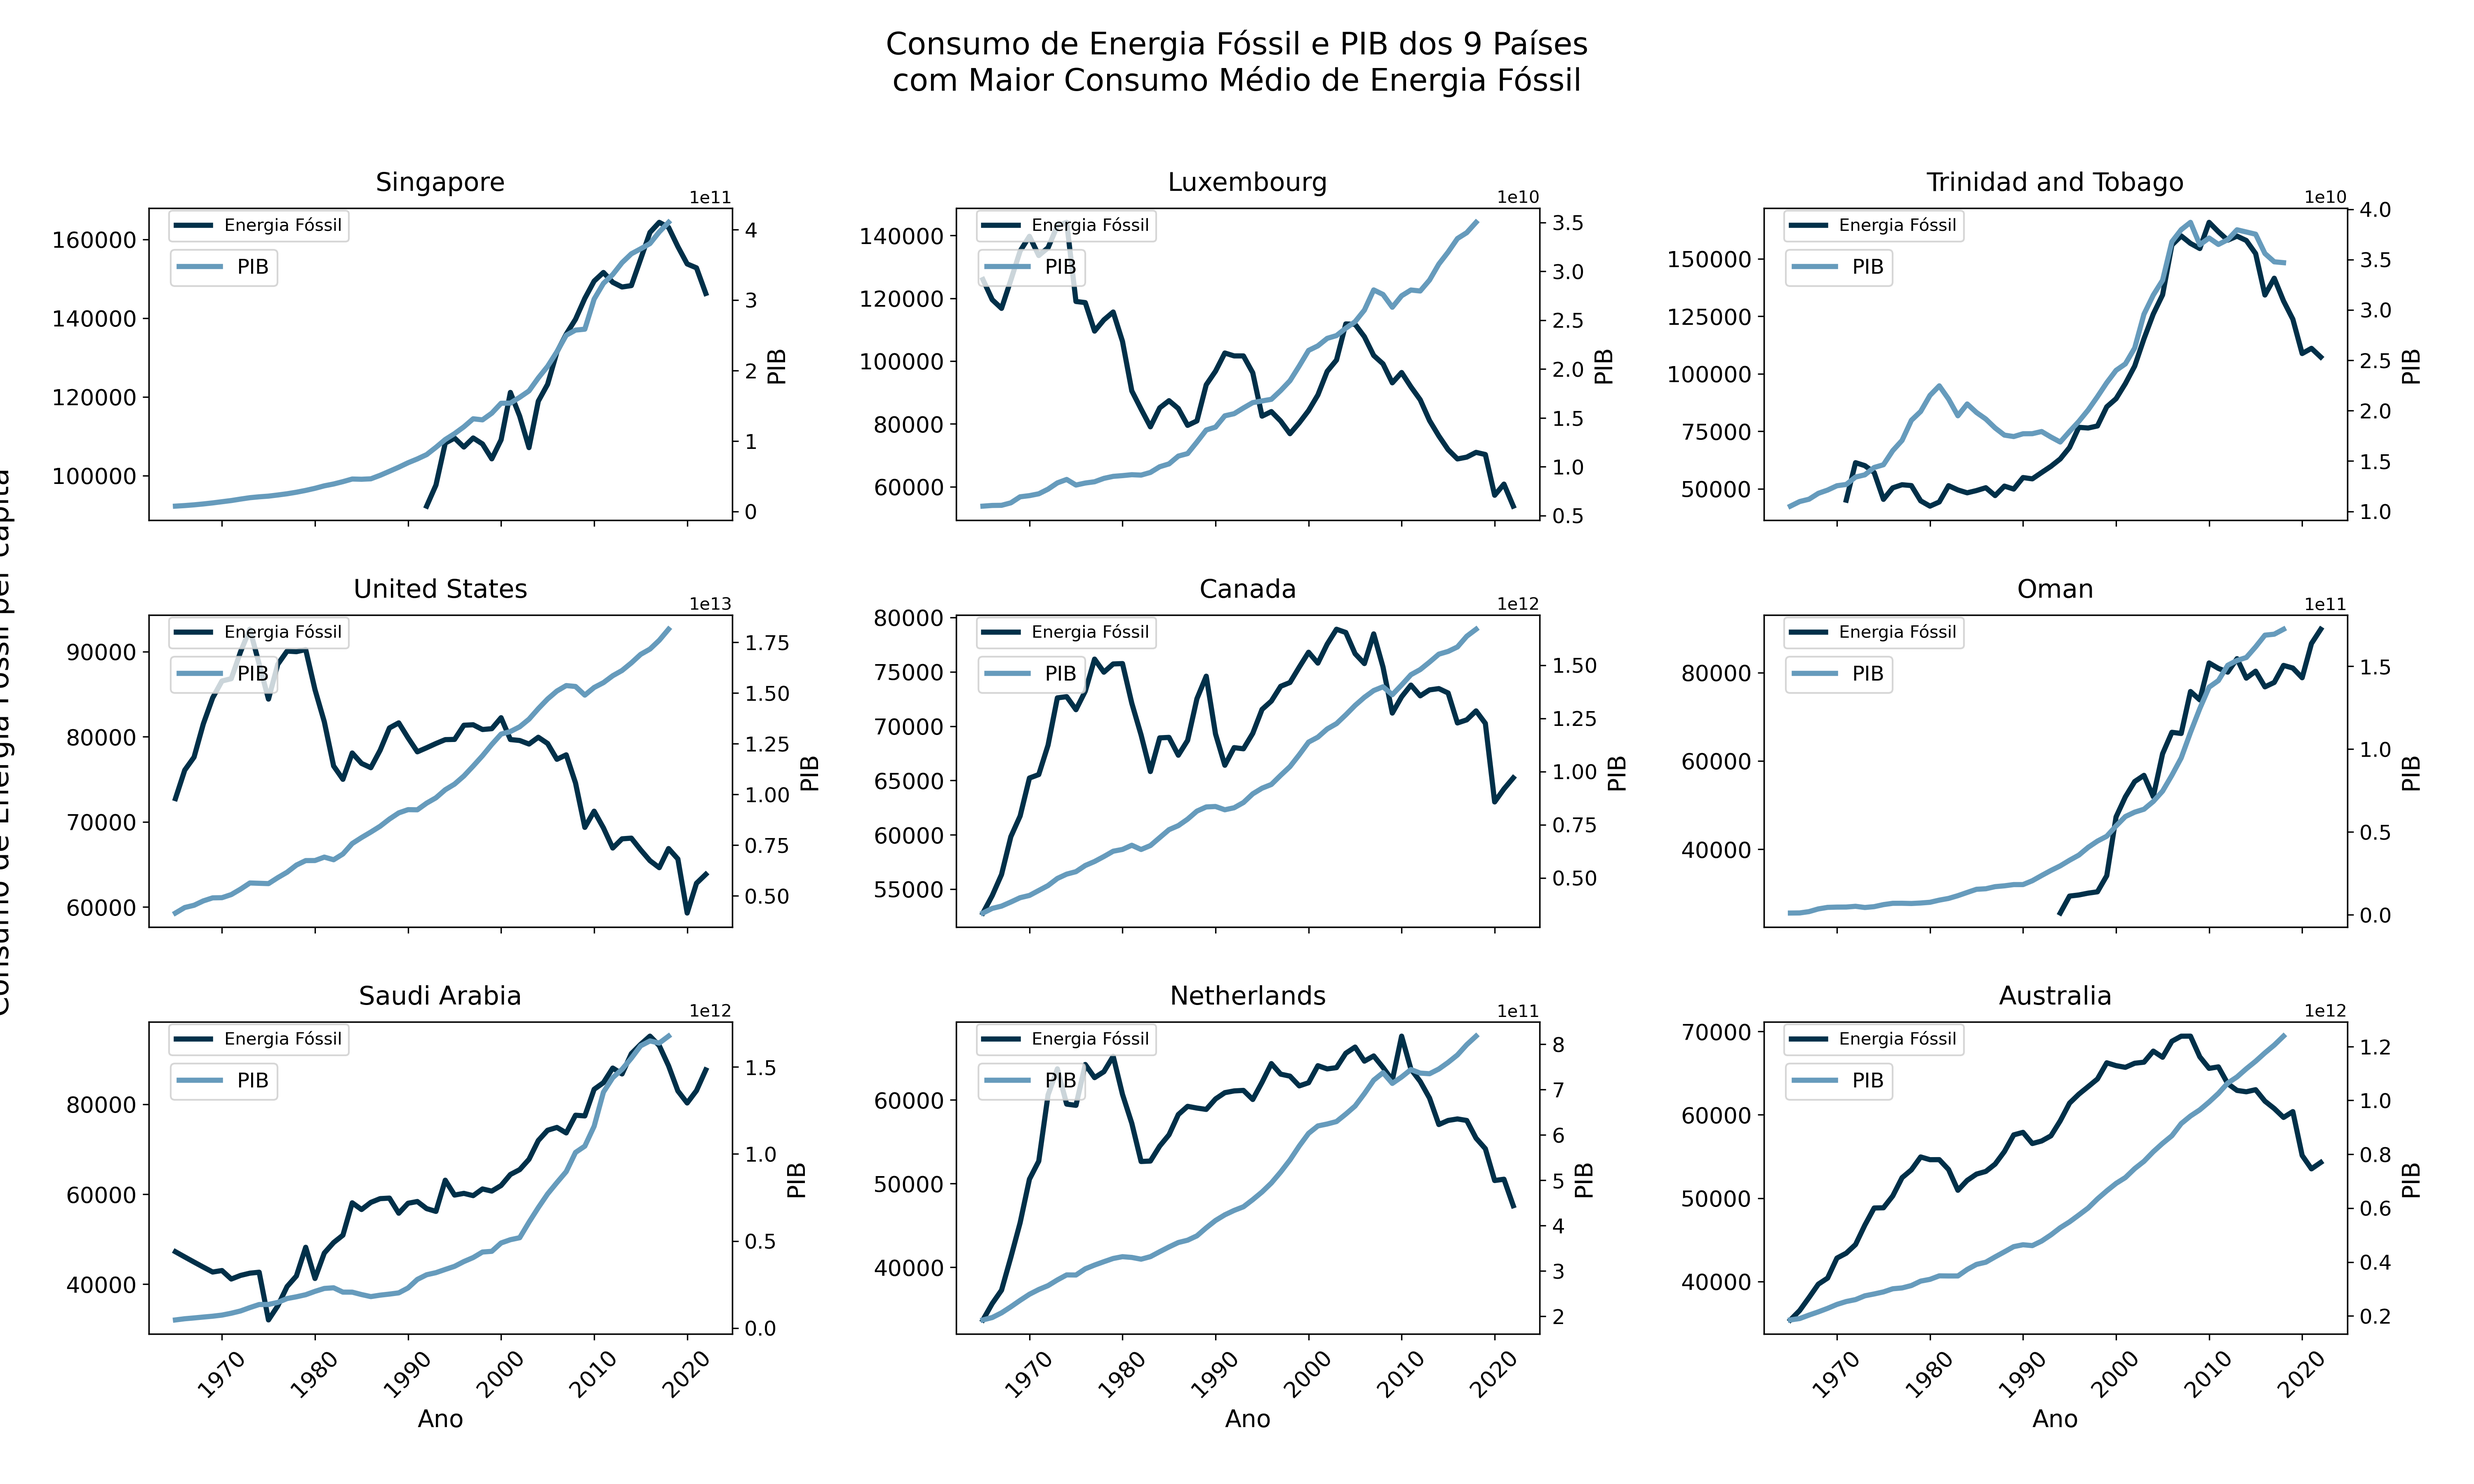
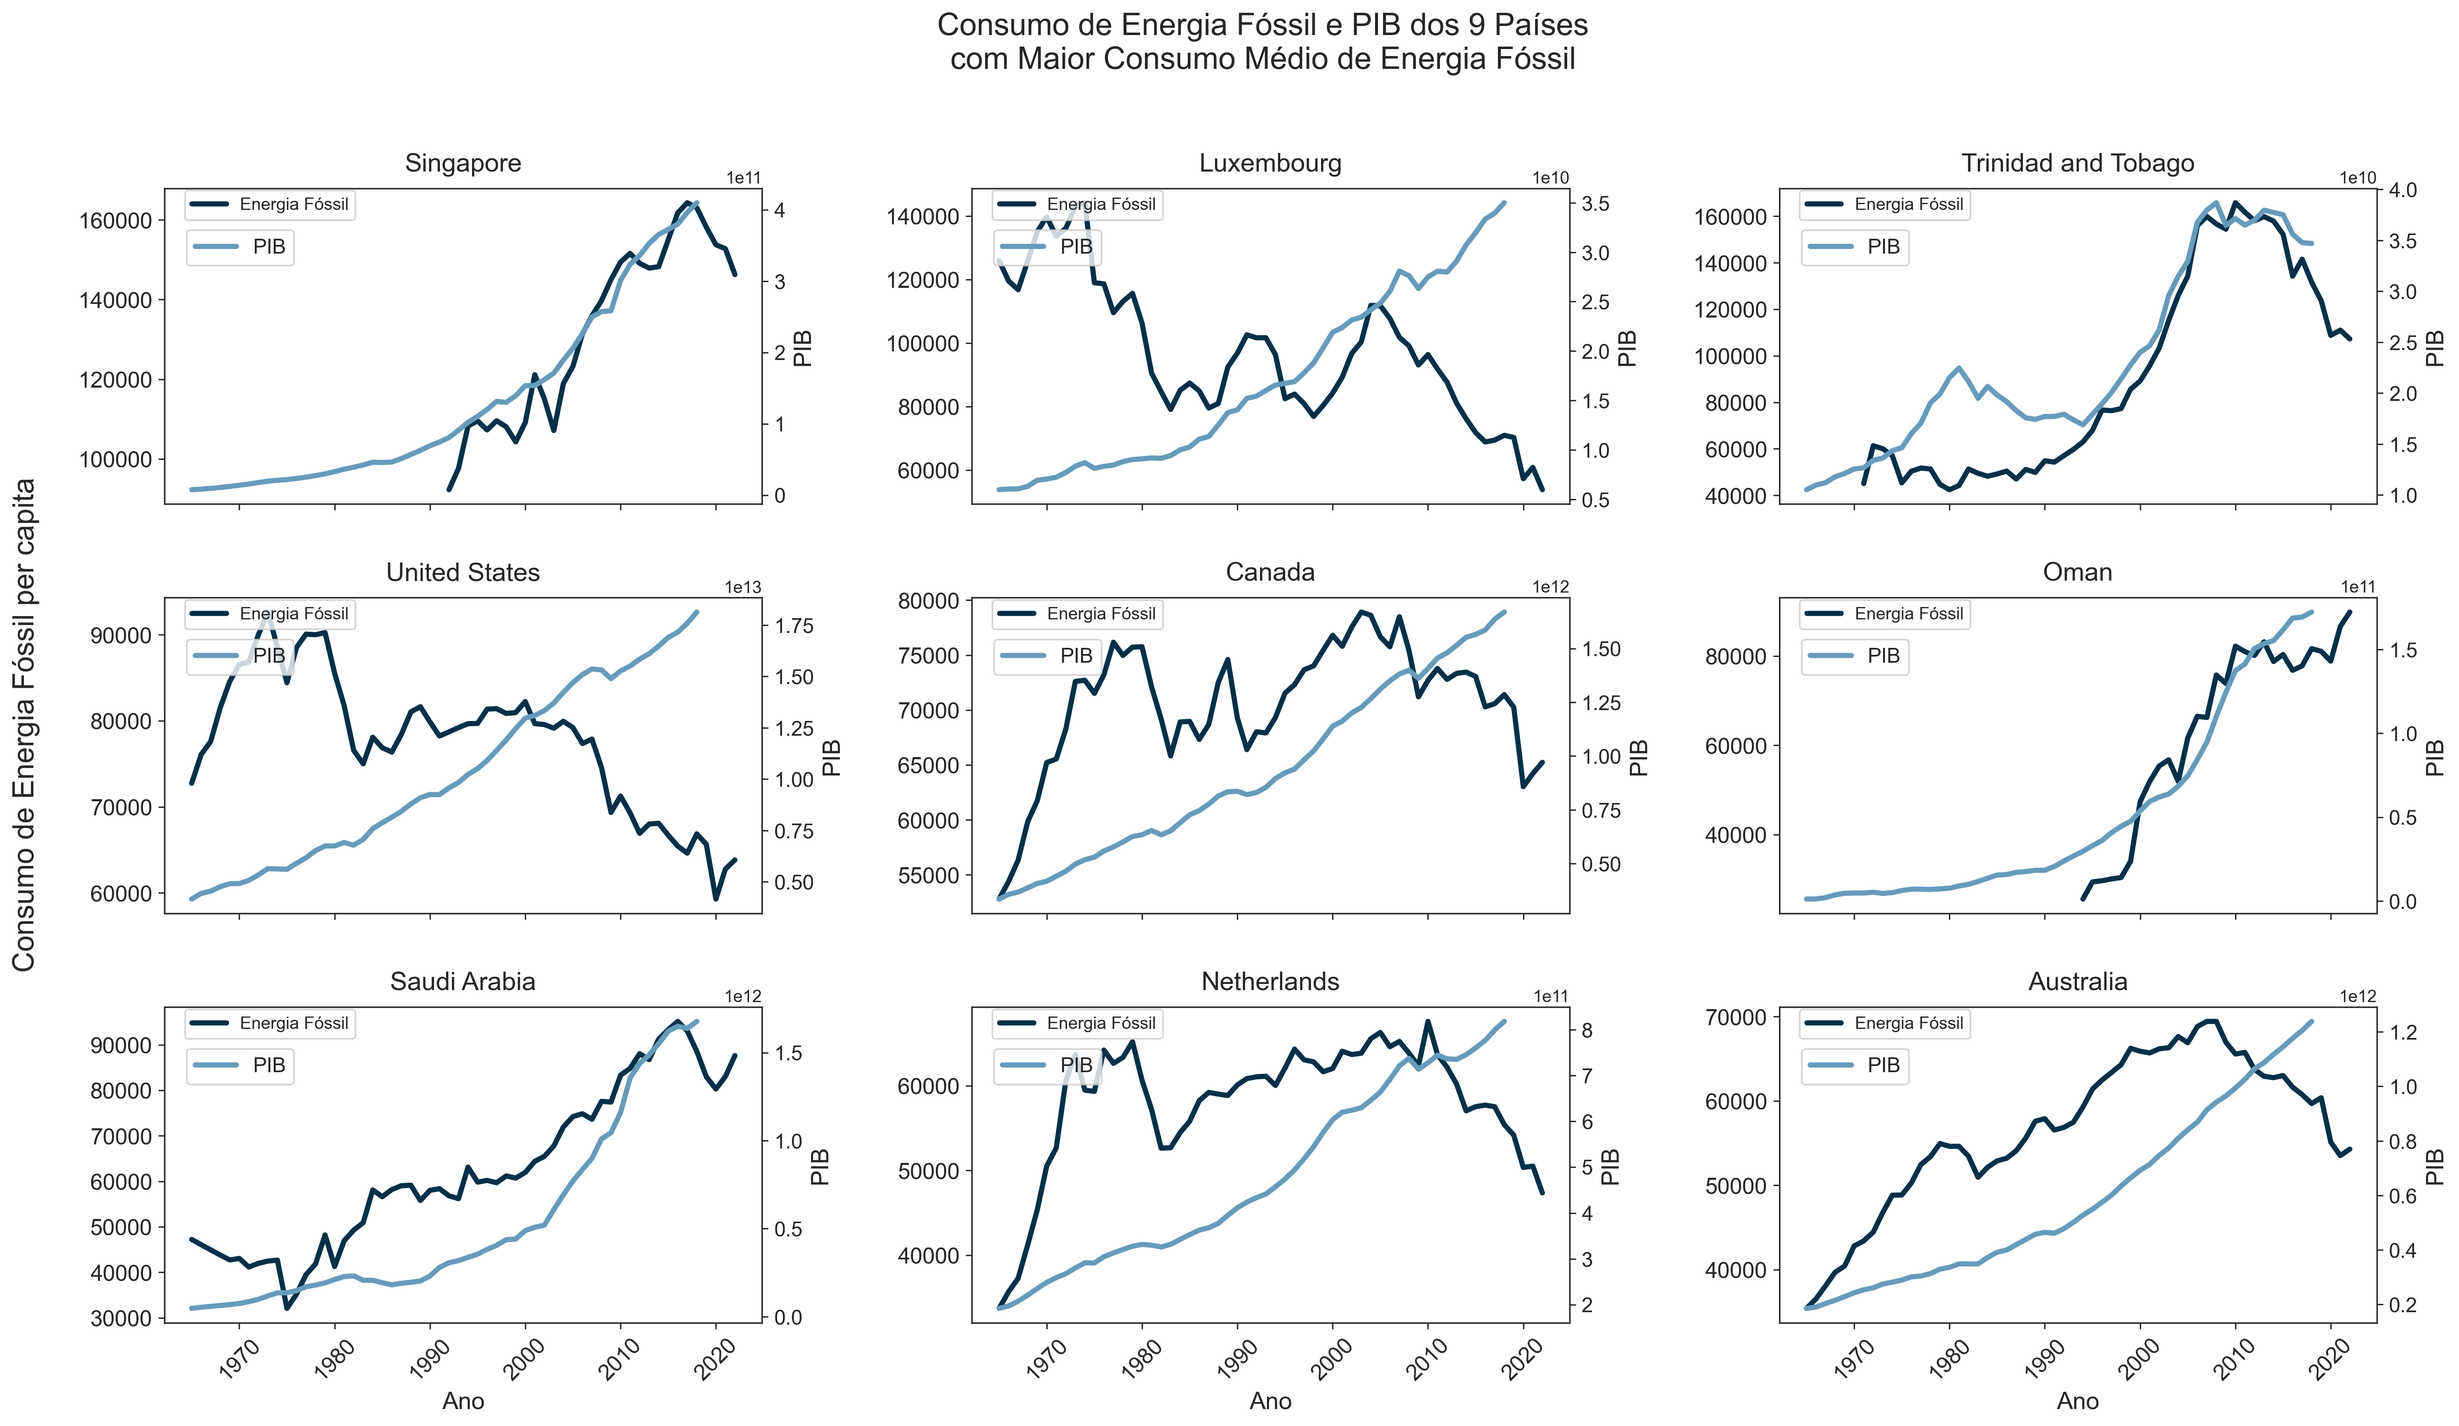
adicionei os testes para a hipótese 4

diff --git a/tests/test_cleaning.py b/tests/test_cleaning.py
@@ -2,14 +2,16 @@ import unittest
 import sys
 import os
 import pandas as pd
+import numpy as np
+
 # Adiciona o diretório src ao sys.path
 sys.path.append(os.path.abspath(os.path.join(os.path.dirname(__file__), '..', 'src')))
-from data_cleaner import demand_and_production # Importem suas funções aqui!!
+from data_cleaner import demand_and_production, GDP_and_fossil_energy_consumption # Importem suas funções aqui!!
 
 
 class TestCleaning(unittest.TestCase):
     def setUp(self):
-        self.df = pd.read_csv("data/World Energy Consumption.csv")
+        self.df = pd.read_csv("../data/World Energy Consumption.csv")
 
 
     # Testes da Hipótese 1
@@ -47,5 +49,71 @@ class TestCleaning(unittest.TestCase):
     # Testes da Hipótese 4
 
 
+class TestGDPAndFossilEnergyConsumption(unittest.TestCase):
+    
+    def setUp(self):
+        # Configuração de DataFrames de teste
+        self.df_complete = pd.DataFrame({
+            'country': ['CountryA', 'CountryA', 'CountryB', 'CountryC', 'CountryD'],
+            'year': [2000, 2001, 2000, 2000, 2000],
+            'gdp': [1000, 1100, 2000, 3000, np.nan],
+            'coal_cons_per_capita': [50, 55, 60, 65, 70],
+            'fossil_energy_per_capita': [100, 110, 120, 130, np.nan],
+            'gas_energy_per_capita': [20, 25, 30, 35, np.nan],
+            'oil_energy_per_capita': [30, 35, 40, 45, np.nan]
+        })
+        
+        self.df_missing_gdp = pd.DataFrame({
+            'country': ['CountryA', 'CountryB', 'CountryB', 'CountryC', 'CountryC'],
+            'year': [2000, 2000, 2001, 2000, 2001],
+            'gdp': [1000, np.nan, np.nan, 3000, 3100],
+            'coal_cons_per_capita': [50, 60, 65, np.nan, 75],
+            'fossil_energy_per_capita': [100, 120, np.nan, 130, 140],
+            'gas_energy_per_capita': [20, 30, np.nan, 35, 45],
+            'oil_energy_per_capita': [30, 40, np.nan, 45, 50]
+        })
+        
+        self.df_all_missing_gdp = pd.DataFrame({
+            'country': ['CountryA', 'CountryA', 'CountryB', 'CountryB'],
+            'year': [2000, 2001, 2000, 2001],
+            'gdp': [np.nan, np.nan, np.nan, np.nan],
+            'coal_cons_per_capita': [50, 55, 60, 65],
+            'fossil_energy_per_capita': [100, 110, 120, 130],
+            'gas_energy_per_capita': [20, 25, 30, 35],
+            'oil_energy_per_capita': [30, 35, 40, 45]
+        })
+
+    def test_complete_data(self):
+        # Testa com todos os dados preenchidos
+        result = GDP_and_fossil_energy_consumption(self.df_complete)
+        self.assertEqual(len(result), 4)
+        self.assertNotIn('CountryD', result['country'].unique())
+
+    def test_missing_gdp(self):
+        # Testa remoção de países com GDP ausente em todos os anos
+        result = GDP_and_fossil_energy_consumption(self.df_missing_gdp)
+        self.assertEqual(len(result), 3)  # Atualizado para refletir o total correto
+        self.assertNotIn('CountryB', result['country'].unique())
+        self.assertIn('CountryA', result['country'].unique())
+        self.assertIn('CountryC', result['country'].unique())
+
+    def test_all_missing_gdp(self):
+        # Testa remoção quando todos os países possuem GDP ausente
+        result = GDP_and_fossil_energy_consumption(self.df_all_missing_gdp)
+        self.assertTrue(result.empty)
+
+    def test_removal_of_null_rows(self):
+        # Testa se linhas com todos os valores de consumo de energia nulos são removidas
+        df_with_nulls = self.df_complete.copy()
+        df_with_nulls.loc[4, ['coal_cons_per_capita', 'fossil_energy_per_capita', 'gas_energy_per_capita', 'oil_energy_per_capita']] = [np.nan, np.nan, np.nan, np.nan]
+        result = GDP_and_fossil_energy_consumption(df_with_nulls)
+        self.assertEqual(len(result), 4)
+
+    def test_output_structure(self):
+        # Testa a estrutura do DataFrame retornado
+        result = GDP_and_fossil_energy_consumption(self.df_complete)
+        expected_columns = ['country', 'year', 'gdp', 'coal_cons_per_capita', 'fossil_energy_per_capita', 'gas_energy_per_capita', 'oil_energy_per_capita']
+        self.assertListEqual(list(result.columns), expected_columns)
+        
 if __name__ == '__main__':
     unittest.main()

diff --git a/src/hipotese_4.py b/src/hipotese_4.py
@@ -19,9 +19,6 @@ columns = df.columns
 
 # Lista de paises com muitos valores nulos
 def countries_with_most_na(df, column, top_n=10):
-    
-  
-# Tabela para visualizar quantidade de valores nulos
     """
     Retorna uma lista dos países com mais valores NA em uma coluna específica.
 
@@ -47,6 +44,8 @@ def countries_with_most_na(df, column, top_n=10):
     top_countries_with_na = na_counts.sort_values(ascending=False).head(top_n).index.tolist()
     
     return top_countries_with_na
+
+# Tabela para visualizar quantidade de valores nulos
 def countries_with_na_counts(df, column, top_n=10):
     """
     Retorna os países com mais valores NA em uma coluna específica, junto com a quantidade de valores NA.
@@ -151,7 +150,7 @@ def plot_country_energy_gdp(df, country, ax, column, colors):
     
     
 # Função para plotar os 9 países com maior consumo de energia fóssil
-def plot_top_9_countries(df):
+def plot_top_9_countries(df, mode = "show"):
     """
     Plota um grid 3x3 dos 9 países com maior consumo médio de energia fóssil per capita.
 
@@ -199,7 +198,8 @@ def plot_top_9_countries(df):
     # Ajustar espaçamento entre os subplots
     fig.tight_layout(pad=3.0, h_pad=3.0, w_pad=3.0)
     
-    plt.savefig('../plots/plots_hipotese_4/top_9_countries.png', dpi=300, format='png')
+    if mode == "save":
+        plt.savefig('../plots/plots_hipotese_4/top_9_countries.png', bbox_inches='tight', dpi=300, format='png')
     plt.show()
     plt.close()
 
@@ -210,7 +210,7 @@ def plot_top_9_countries(df):
 
 
 # Função para plotar os 9 países com menor consumo de energia fóssil
-def plot_lower_9_countries(df):
+def plot_lower_9_countries(df, mode = "show"):
     """
     Plota um grid 3x3 dos 9 países com menor consumo médio de energia fóssil per capita.
 
@@ -256,19 +256,19 @@ def plot_lower_9_countries(df):
     # Ajustar espaçamento entre os subplots
     fig.tight_layout(pad=3.0, h_pad=3.0, w_pad=3.0)
     
-
-    plt.savefig('../plots/plots_hipotese_4/lower_9_countries.png', dpi=300, format='png')
+    if mode == "save":
+        plt.savefig('../plots/plots_hipotese_4/lower_9_countries.png', bbox_inches='tight', dpi=300, format='png')
     plt.show()
     plt.close()
 
     
     
-plot_top_9_countries(df_auxiliary)
-plot_lower_9_countries(df_auxiliary)
+plot_top_9_countries(df_auxiliary, "save")
+plot_lower_9_countries(df_auxiliary, "save")
 
 
 
-def energy_gdp_correlation(df):
+def energy_gdp_correlation(df, mode = "show"):
     """
     Calcula e plota as contagens de países classificados por níveis de correlação (alta, moderada e baixa) entre PIB e consumo de diferentes tipos de energia fóssil.
 
@@ -337,13 +337,13 @@ def energy_gdp_correlation(df):
         if container.datavalues[0] == correlation_counts_df['Alta Correlação'][0]:
             ax.bar_label(container, label_type='edge', color= '#33415C', fontsize=12, padding=3)
             
-
-    plt.savefig('../plots/plots_hipotese_4/correlations_counts.png', dpi=300, format='png')
+    if mode == "save":
+        plt.savefig('../plots/plots_hipotese_4/correlations_counts.png', bbox_inches='tight', dpi=300, format='png')
     plt.show()
     plt.close()
 
 
-energy_gdp_correlation(df)
+energy_gdp_correlation(df, "save")
 
 
 

diff --git a/tests/test_hipotese_4.py b/tests/test_hipotese_4.py
@@ -1,0 +1,74 @@
+from matplotlib.testing.decorators import check_figures_equal
+import matplotlib.pyplot as plt
+import unittest
+import pandas as pd
+import numpy as np
+import os
+import sys
+
+
+sys.path.append(os.path.abspath(os.path.join(os.path.dirname(__file__), '..', 'src')))
+from hipotese_4 import (countries_with_most_na, countries_with_na_counts, 
+                         plot_country_energy_gdp, plot_top_9_countries, 
+                         plot_lower_9_countries, energy_gdp_correlation)
+class TestGDPAndFossilEnergyAnalysis(unittest.TestCase):
+    def setUp(self):
+        self.df = pd.DataFrame({
+            'country': ['A', 'B', 'C', 'D', 'E', 'F', 'G', 'H', 'I'] * 3,
+            'year': [2000, 2001, 2002] * 9,
+            'fossil_energy_per_capita': [10, np.nan, 30, 40, 50, 60, 70, 80, 90] * 3,
+            'gdp': [1, 2, 3, 4, 5, 6, 7, 8, 9] * 3
+        })
+        self.colors = ['#003049', '#669bbc']
+
+    def test_countries_with_most_na(self):
+        result = countries_with_most_na(self.df, "fossil_energy_per_capita", top_n=2)
+        expected = ['B', 'A']
+        self.assertEqual(result, expected)
+
+    def test_countries_with_na_counts(self):
+        result = countries_with_na_counts(self.df, "fossil_energy_per_capita", top_n=2)
+        expected = pd.DataFrame({
+            'Country': ['B', 'A'],
+            'NA Count': [3, 0]
+        })
+        pd.testing.assert_frame_equal(result, expected)
+
+    # @check_figures_equal()
+    # def test_plot_country_energy_gdp(self, fig_test, fig_ref):
+    #     ax_test = fig_test.subplots()
+    #     plot_country_energy_gdp(self.df.set_index(['country', 'year']), 'A', ax_test,
+    #                             'fossil_energy_per_capita', self.colors)
+
+    #     ax_ref = fig_ref.subplots()
+    #     plot_country_energy_gdp(self.df.set_index(['country', 'year']), 'A', ax_ref,
+    #                             'fossil_energy_per_capita', self.colors)
+
+    # @check_figures_equal()
+    # def test_plot_top_9_countries(self, fig_test, fig_ref):
+    #     ax_test = fig_test.subplots()
+    #     plot_top_9_countries(self.df, ax=ax_test)
+
+    #     ax_ref = fig_ref.subplots()
+    #     plot_top_9_countries(self.df, ax=ax_ref)
+
+    # @check_figures_equal()
+    # def test_plot_lower_9_countries(self, fig_test, fig_ref):
+    #     ax_test = fig_test.subplots()
+    #     plot_lower_9_countries(self.df, ax=ax_test)
+
+    #     ax_ref = fig_ref.subplots()
+    #     plot_lower_9_countries(self.df, ax=ax_ref)
+
+    # @check_figures_equal()
+    # def test_energy_gdp_correlation(self, fig_test, fig_ref):
+    #     ax_test = fig_test.subplots()
+    #     energy_gdp_correlation(self.df, ax=ax_test)
+
+    #     ax_ref = fig_ref.subplots()
+    #     energy_gdp_correlation(self.df, ax=ax_ref)
+
+
+
+if __name__ == "__main__":
+    unittest.main()
